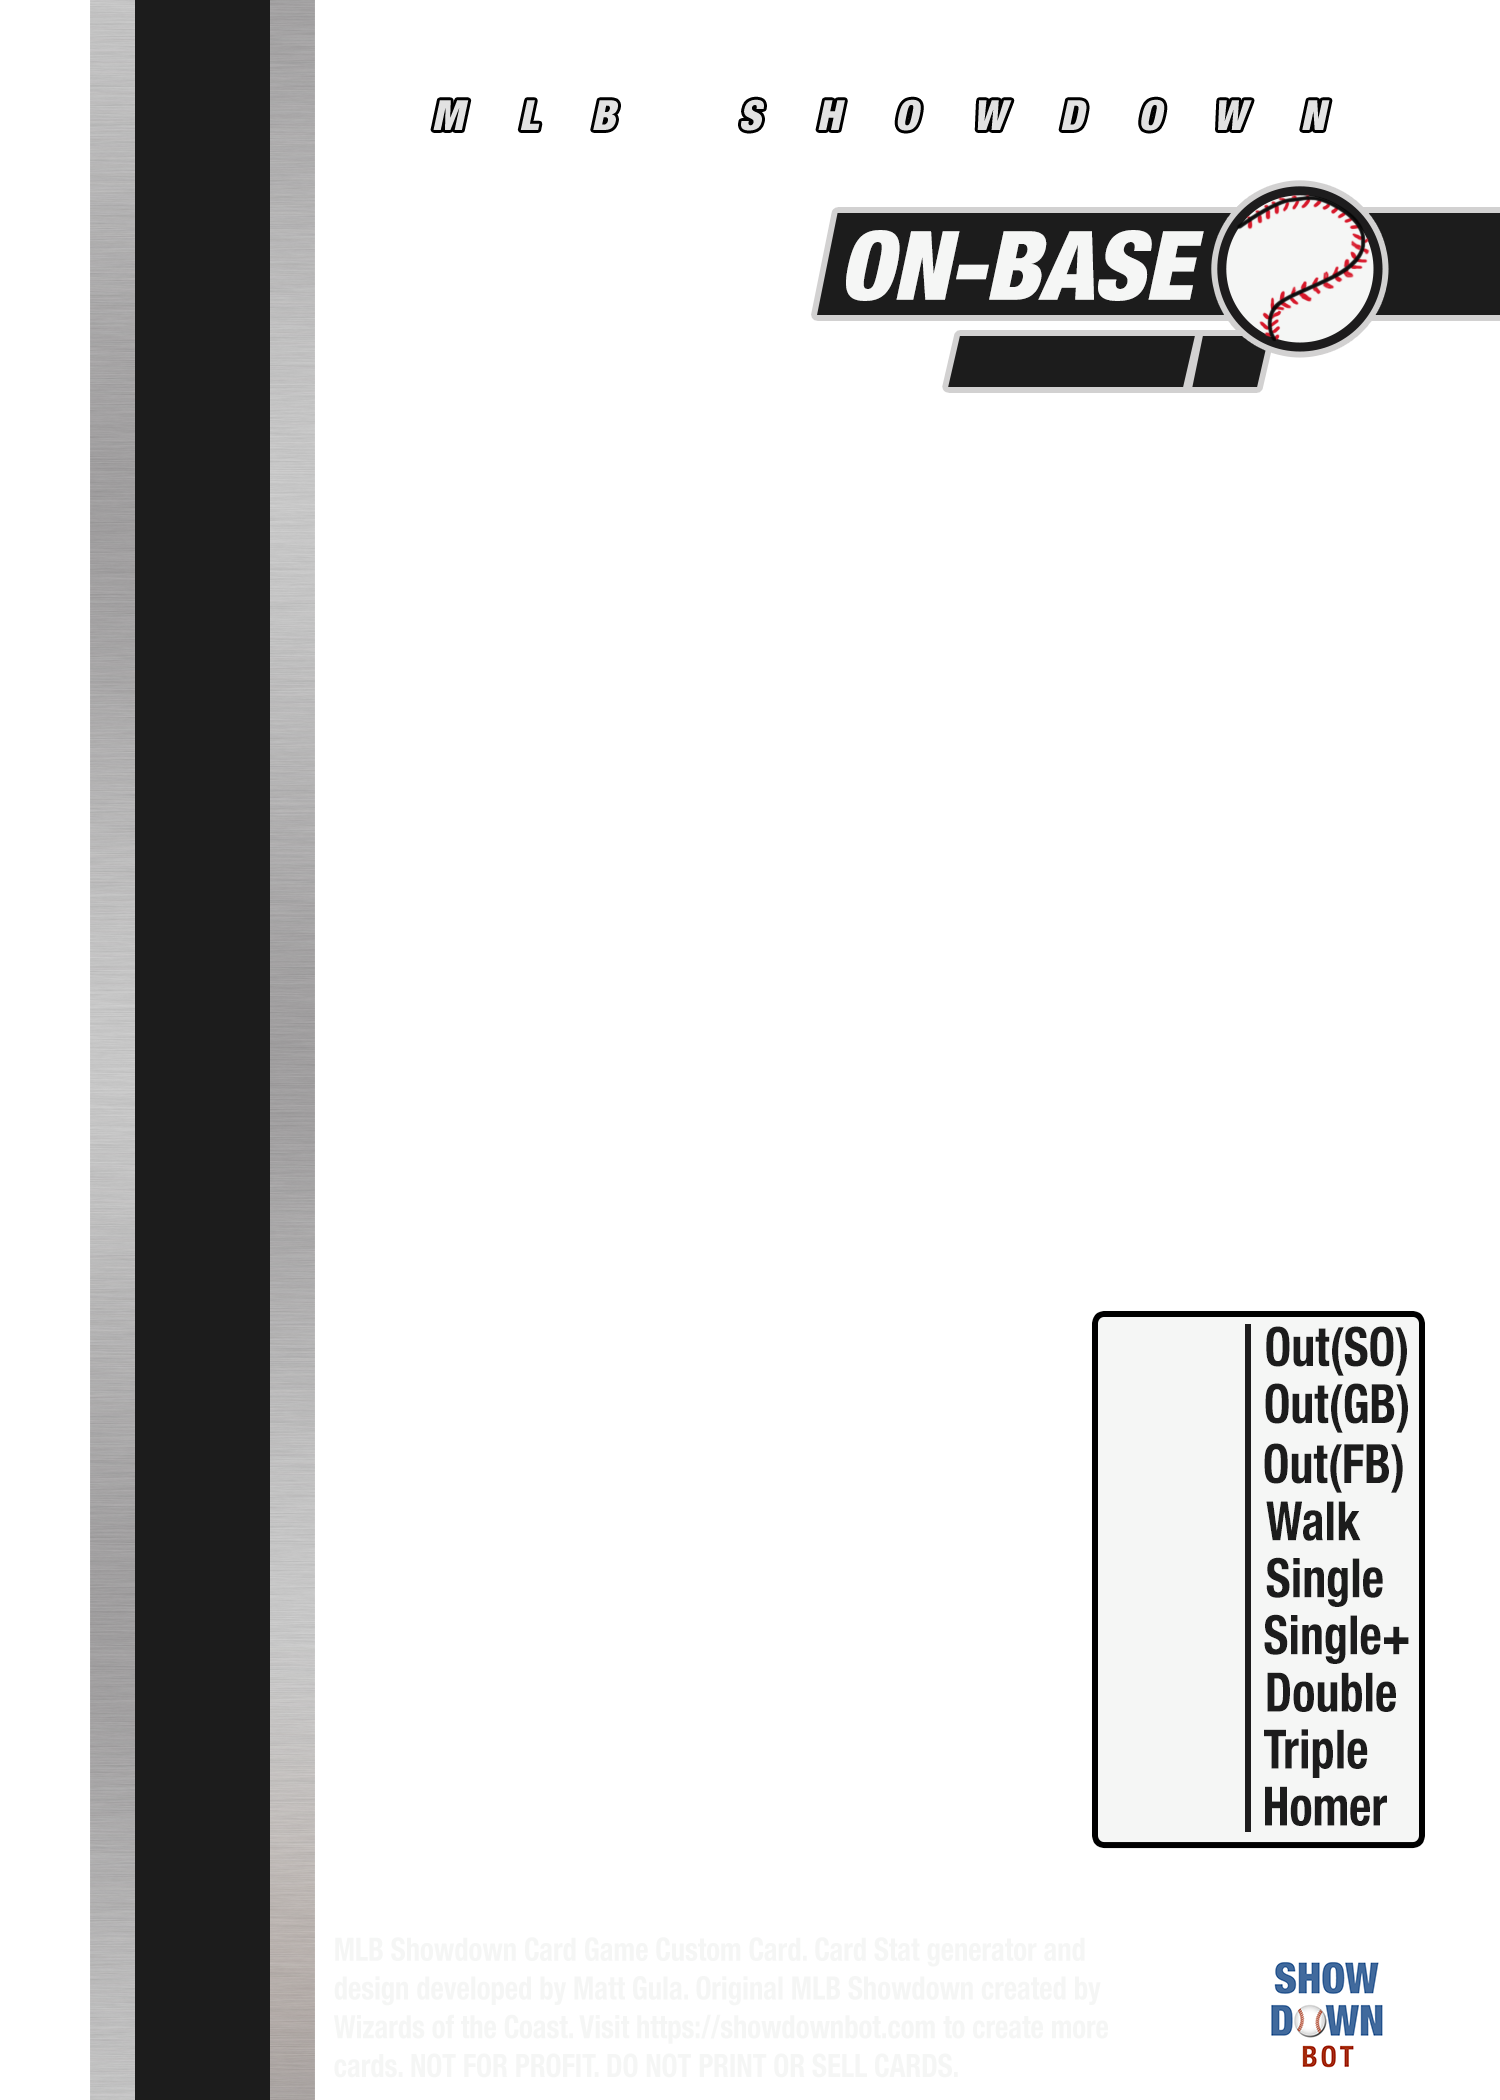
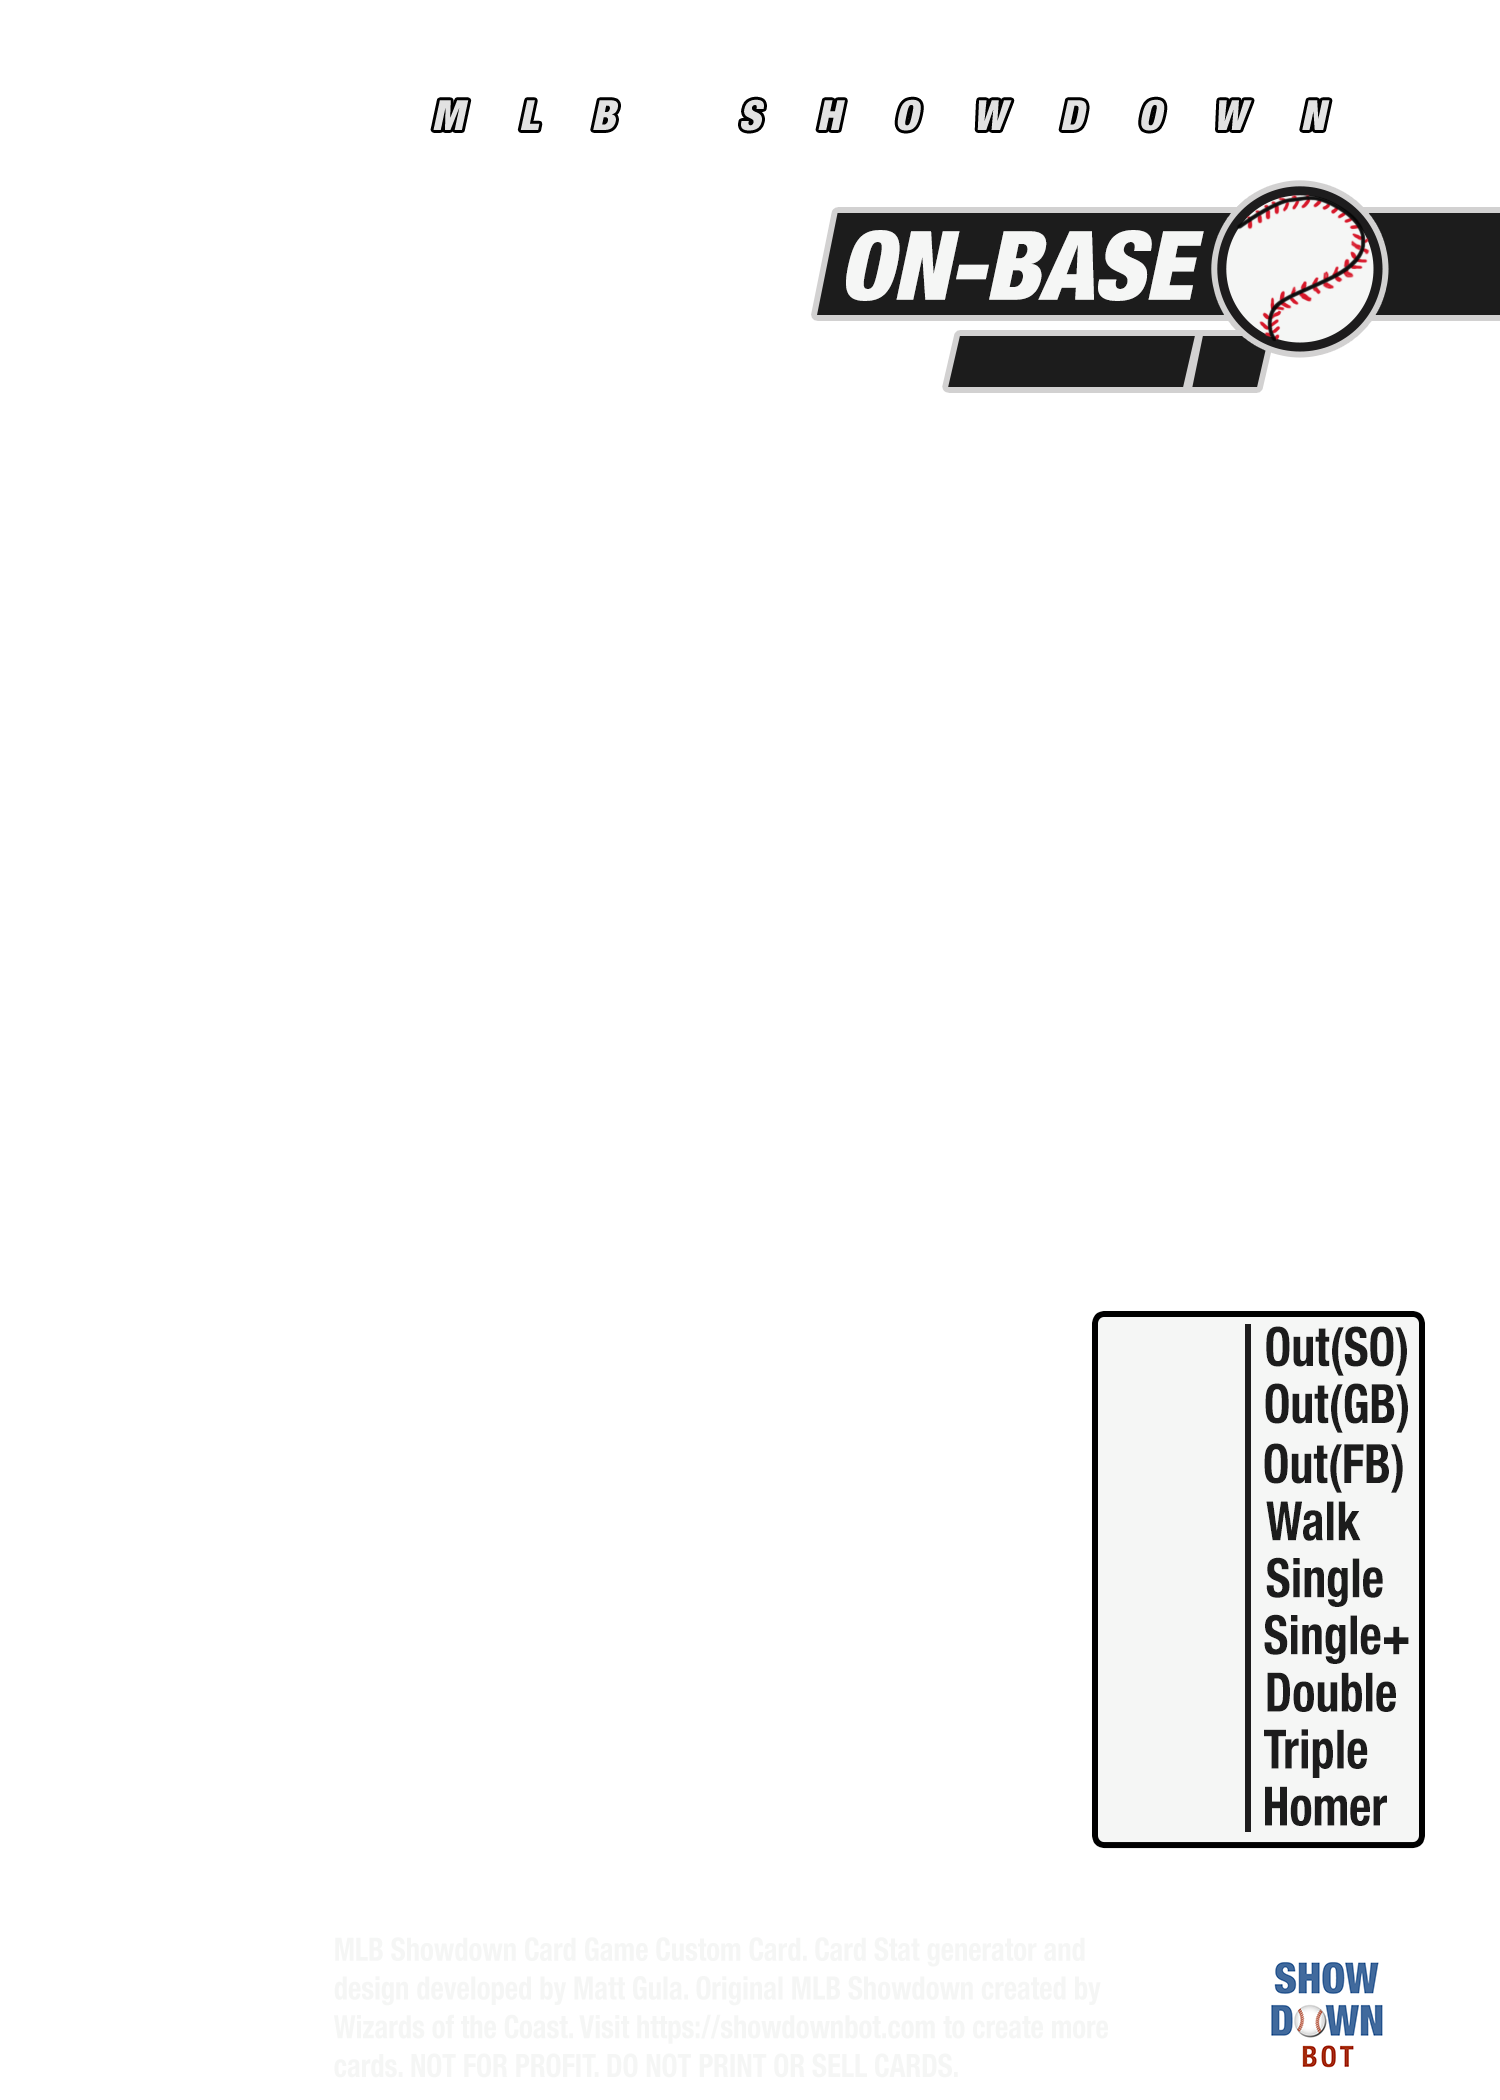
Decouple name container in 2000 set cards with auto backgrounds

Changed region(s): [[0.0613, 0.0, 0.2147, 1.0]]

diff --git a/mlb_showdown_bot/showdown_player_card_generator.py b/mlb_showdown_bot/showdown_player_card_generator.py
@@ -1718,7 +1718,7 @@ class ShowdownPlayerCardGenerator:
         name_text, color = self.__player_name_text_image()
         location_key = 'player_name_small' if len(self.name) > 18 else 'player_name'
         name_paste_location = sc.IMAGE_LOCATIONS[location_key][str(self.context)]
-        if self.context == '2001':
+        if self.context in ['2000', '2001']:
             # ADD BACKGROUND BLUR EFFECT FOR 2001 CARDS
             name_text_blurred = name_text.filter(ImageFilter.BLUR)
             player_image.paste(sc.COLOR_BLACK, (name_paste_location[0] + 6, name_paste_location[1] + 6), name_text_blurred)
@@ -1789,8 +1789,10 @@ class ShowdownPlayerCardGenerator:
 
         Returns:
           PIL image object for the player background.
+          Boolean for whether a background player image was applied
         """
         default_image_path = os.path.join(os.path.dirname(__file__), 'templates', 'Default Background - {}.png'.format(self.context))
+        is_default_image = False
         if self.player_image_path:
             # LOAD IMAGE FROM UPLOAD
             image_path = os.path.join(os.path.dirname(__file__), 'uploads', self.player_image_path)
@@ -1810,8 +1812,14 @@ class ShowdownPlayerCardGenerator:
                 player_image = Image.open(default_image_path)
         else:
             player_image = self.__default_background_image()
+            is_default_image = True
 
         player_image = self.__center_crop(player_image, (1500,2100))
+
+        # IF 2000 CARD AND A DEFAULT WAS NOT USED, ADD NAME CONTAINER IN FRONT OF IMAGE
+        if self.context == '2000' and not is_default_image:
+            name_container = self.__2000_player_name_container_image()
+            background_image.paste(name_container,(0,0),name_container)
 
         return player_image
 
@@ -1847,6 +1855,11 @@ class ShowdownPlayerCardGenerator:
             # DEFAULT TEAM BACKGROUND
             background_image = Image.open(default_image_path)
         
+        # IF 2000, PASTE NAME CONTAINER BEFORE PLAYER CUTOUT
+        if self.context == '2000':
+            name_container = self.__2000_player_name_container_image()
+            background_image.paste(name_container,(0,0),name_container)
+
         # -- GET PLAYER IMAGE --
         # SEARCH FOR PLAYER IMAGE
         additional_substring_filters = [self.year]
@@ -2095,6 +2108,17 @@ class ShowdownPlayerCardGenerator:
             template_image.paste(positions_points_image, (0,0), positions_points_image)
 
         return template_image
+
+    def __2000_player_name_container_image(self):
+        """Gets template asset image for 2000 name container.
+
+        Args:
+          None
+
+        Returns:
+          PIL image object for 2000 name background/container
+        """
+        return Image.open(os.path.join(os.path.dirname(__file__), 'templates', "2000-Name.png"))
 
     def __player_name_text_image(self):
         """Creates Player name to match showdown context.
